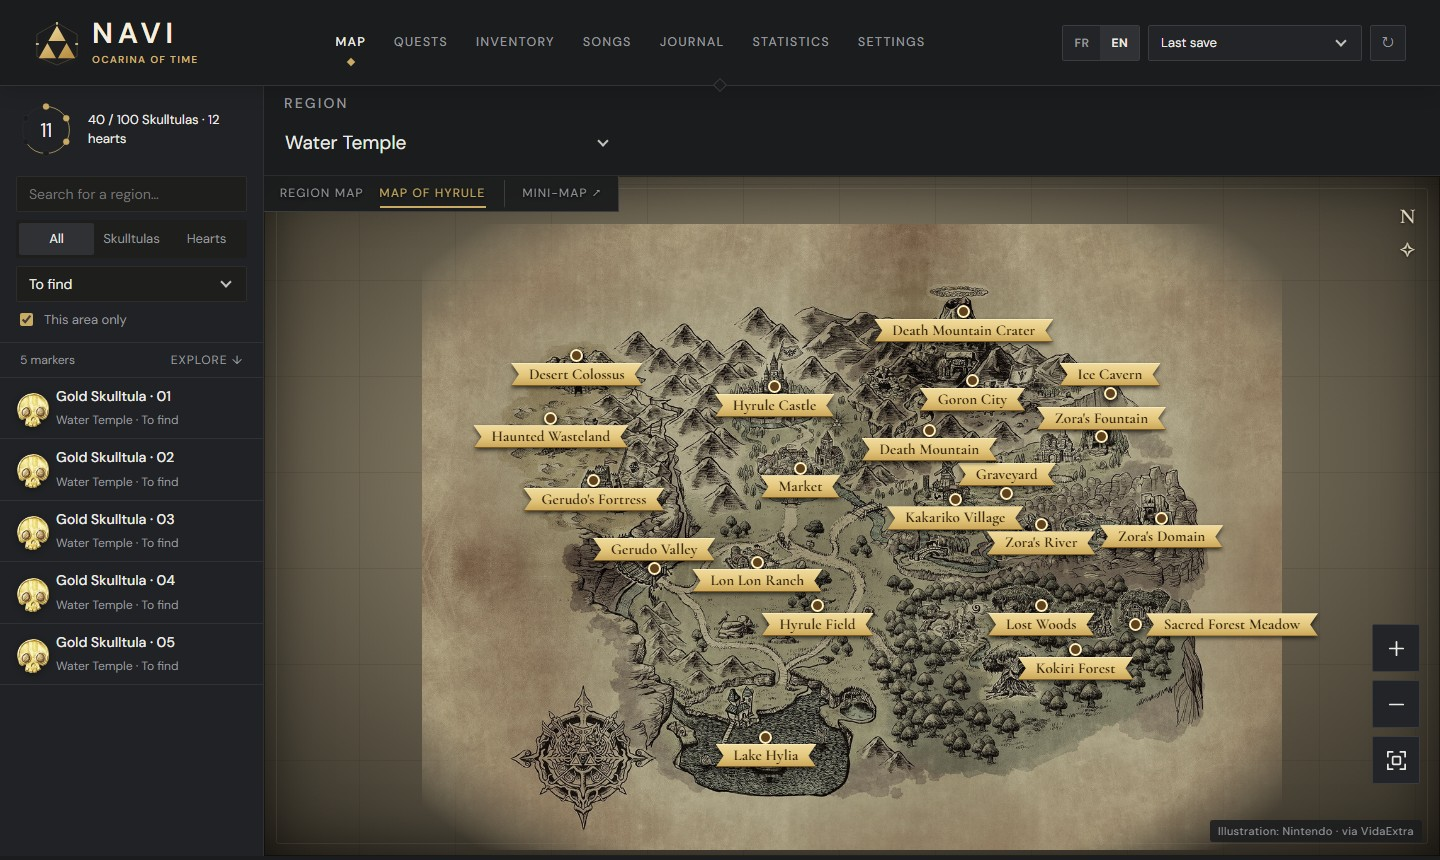
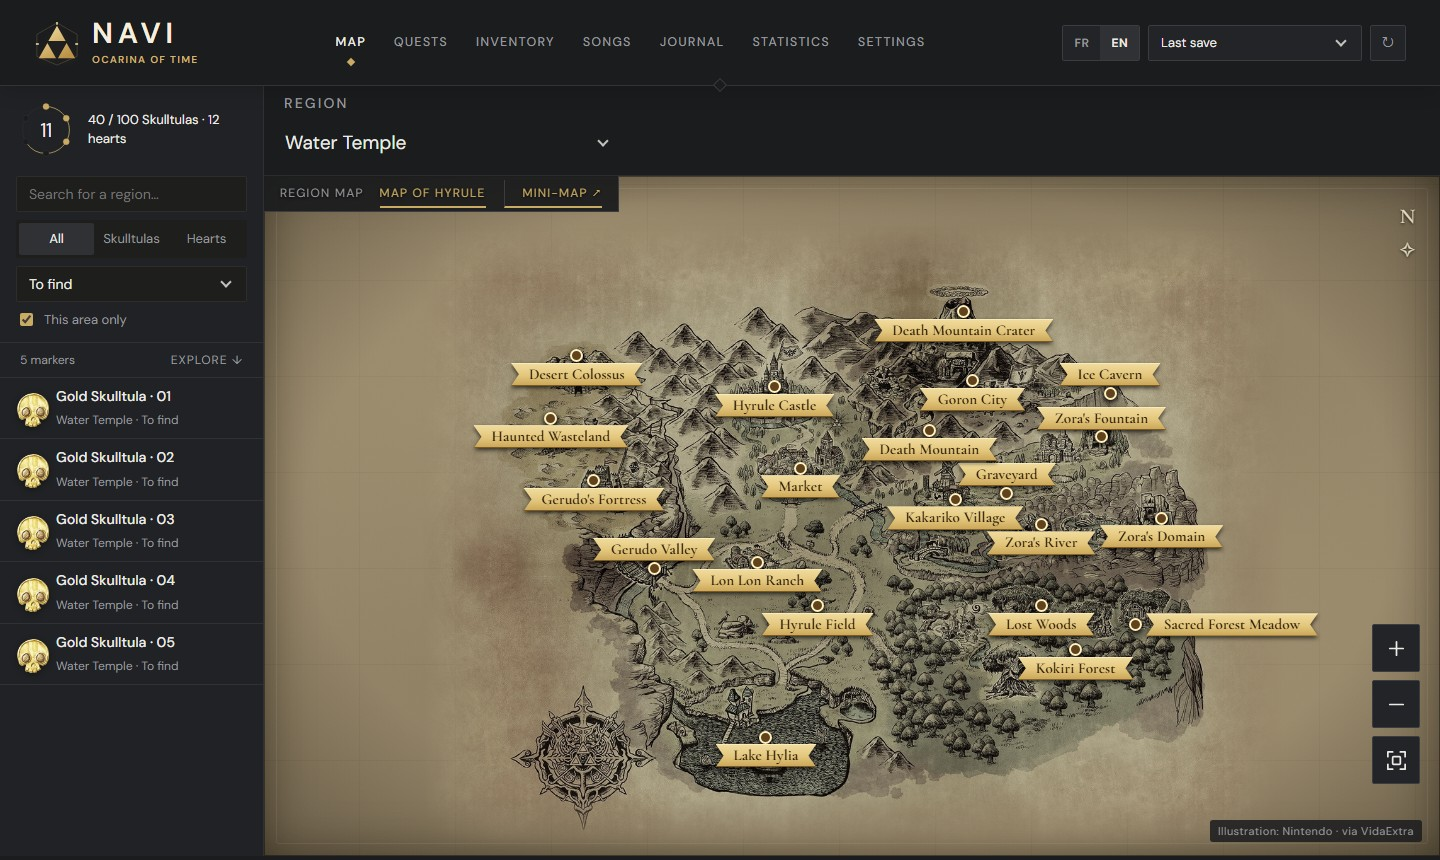
Map legend without "to verify"; README screenshots on the parchment sheet

Changed region(s): [[0.1562, 0.1814, 1.0, 0.9977]]

diff --git a/web/index.html b/web/index.html
@@ -1,7 +1,7 @@
 <!doctype html><html lang="fr"><head><meta charset="utf-8"><meta name="viewport" content="width=device-width, initial-scale=1"><title>Navi — Atlas d’Hyrule</title><link rel="stylesheet" href="/style.css"><script src="/i18n.js" defer></script><script src="/app.js" defer></script></head><body>
 <header class="topbar"><a class="brand" href="#carte" aria-label="Navi — Ocarina of Time, carte d’Hyrule"><svg class="brand-emblem" width="48" height="48" viewBox="0 0 48 48" aria-hidden="true" focusable="false"><defs><linearGradient id="brand-gold" x1="0" y1="0" x2=".7" y2="1"><stop stop-color="#f8e5a7"/><stop offset="1" stop-color="#ba9146"/></linearGradient></defs><path d="M24 3 45 15v23L24 47 3 38V15Z" fill="none" stroke="#d8b76e" stroke-opacity=".22"/><path d="M24 9 33 25H15ZM14 27l9 16H5ZM34 27l9 16H25Z" fill="url(#brand-gold)" transform="translate(0 -3)"/><path d="M24 2v3M2 25h3M43 25h3" stroke="#f8e5a7" stroke-width="1.5"/></svg><span class="brand-copy"><strong>NAVI</strong><small>OCARINA OF TIME</small></span></a><nav aria-label="Navigation principale"><button data-view="carte" aria-current="page">Carte</button><button data-view="quests">Quêtes</button><button data-view="inventory">Inventaire</button><button data-view="songs">Chants</button><button data-view="journal">Journal</button><button data-view="statistics">Statistiques</button><button data-view="settings">Réglages</button></nav><div class="save-control"><div class="lang-switch" role="group" aria-label="Langue"><button type="button" data-lang="fr" aria-pressed="true">FR</button><button type="button" data-lang="en" aria-pressed="false">EN</button></div><span id="connection" role="status">Connexion…</span><select id="slot" aria-label="Sauvegarde"><option value="latest">Dernière sauvegarde</option></select><button id="refresh" aria-label="Actualiser">↻</button></div></header><div id="error" role="alert" hidden></div><div id="update-banner" role="status" hidden></div>
 <main id="carte" class="view atlas"><aside class="explorer"><div class="panel-heading"><div id="dial-home" class="dial" role="img"></div><div class="panel-heading-copy"><p class="eyebrow">L’ATLAS DU HÉROS</p><h1>À la découverte d’Hyrule.</h1><p id="progress" class="muted">Lecture de ta sauvegarde…</p></div></div><div class="filters"><input id="map-search" type="search" placeholder="Rechercher une région…" aria-label="Rechercher sur la carte"><div class="segmented"><button data-kind="all" aria-pressed="true">Tout</button><button data-kind="skull" aria-pressed="false">Skulltulas</button><button data-kind="heart" aria-pressed="false">Cœurs</button></div><select id="status-filter" aria-label="État des collectibles"><option value="missing">À trouver</option><option value="all">Tous les repères</option><option value="owned">Obtenus</option><option value="unknown">À vérifier</option></select><label class="check"><input type="checkbox" id="local-only" checked> Cette zone uniquement</label></div><div class="list-heading"><span id="result-count"></span><span>EXPLORER ↓</span></div><div id="results" class="results"></div></aside>
-<section class="map-panel" aria-label="Carte interactive"><div class="map-view-bar"><label class="check follow-control"><input id="follow-player" type="checkbox" checked>Suivre Link</label><button id="player-center" title="Revenir à la position de Link">Ma position</button></div><div class="map-toolbar"><div><span class="eyebrow">RÉGION</span><select id="region" aria-label="Choisir la région"></select></div><select id="plan" aria-label="Époque et étage"></select></div><div id="map" tabindex="0" aria-label="Plan de la zone. Glisser ou flèches pour déplacer, molette ou boutons pour zoomer."><div id="world"></div><div class="compass" aria-hidden="true">N<br>✧</div><div class="map-top"><div class="map-view-switch" role="group" aria-label="Vue de la carte"><button id="regional-view" aria-pressed="true">Plan de la région</button><button id="world-view" aria-pressed="false">Carte d’Hyrule</button></div><button type="button" id="overlay-toggle" class="map-text-button" aria-pressed="false" title="Afficher ou fermer la mini-carte, toujours au-dessus du jeu">Mini-carte ↗</button></div><div class="zoom"><button id="zoom-in" type="button" aria-label="Agrandir" title="Agrandir"><svg viewBox="0 0 24 24" width="24" height="24" fill="none" stroke="currentColor" stroke-width="1.8" stroke-linecap="round" stroke-linejoin="round" aria-hidden="true" focusable="false"><path d="M12 5v14M5 12h14"/></svg></button><button id="zoom-out" type="button" aria-label="Réduire" title="Réduire"><svg viewBox="0 0 24 24" width="24" height="24" fill="none" stroke="currentColor" stroke-width="1.8" stroke-linecap="round" stroke-linejoin="round" aria-hidden="true" focusable="false"><path d="M5 12h14"/></svg></button><button id="fit" type="button" aria-label="Recentrer" title="Recentrer"><svg viewBox="0 0 24 24" width="24" height="24" fill="none" stroke="currentColor" stroke-width="1.8" stroke-linecap="round" stroke-linejoin="round" aria-hidden="true" focusable="false"><path d="M8 3H3v5m13-5h5v5M3 16v5h5m13-5v5h-5"/><rect x="8" y="8" width="8" height="8" rx="1"/></svg></button><button id="overlay-follow" type="button" aria-label="Suivre Link" aria-pressed="true" title="Désactiver le suivi de Link"><svg viewBox="0 0 24 24" width="24" height="24" fill="none" stroke="currentColor" stroke-width="1.8" stroke-linejoin="round" aria-hidden="true" focusable="false"><path d="m12 3 7 18-7-4-7 4 7-18Z"/></svg></button></div><div class="map-legend"><span>◆ À trouver</span><span>✓ Obtenu</span><span>? À vérifier</span></div><span class="map-credit">Plans : Owl Object Map · Nintendo</span></div><div class="map-bottom"><span id="player-status" role="status"></span><span id="map-caption">Sélectionne un repère pour l’examiner.</span><button id="mobile-list">Liste des repères</button></div></section>
+<section class="map-panel" aria-label="Carte interactive"><div class="map-view-bar"><label class="check follow-control"><input id="follow-player" type="checkbox" checked>Suivre Link</label><button id="player-center" title="Revenir à la position de Link">Ma position</button></div><div class="map-toolbar"><div><span class="eyebrow">RÉGION</span><select id="region" aria-label="Choisir la région"></select></div><select id="plan" aria-label="Époque et étage"></select></div><div id="map" tabindex="0" aria-label="Plan de la zone. Glisser ou flèches pour déplacer, molette ou boutons pour zoomer."><div id="world"></div><div class="compass" aria-hidden="true">N<br>✧</div><div class="map-top"><div class="map-view-switch" role="group" aria-label="Vue de la carte"><button id="regional-view" aria-pressed="true">Plan de la région</button><button id="world-view" aria-pressed="false">Carte d’Hyrule</button></div><button type="button" id="overlay-toggle" class="map-text-button" aria-pressed="false" title="Afficher ou fermer la mini-carte, toujours au-dessus du jeu">Mini-carte ↗</button></div><div class="zoom"><button id="zoom-in" type="button" aria-label="Agrandir" title="Agrandir"><svg viewBox="0 0 24 24" width="24" height="24" fill="none" stroke="currentColor" stroke-width="1.8" stroke-linecap="round" stroke-linejoin="round" aria-hidden="true" focusable="false"><path d="M12 5v14M5 12h14"/></svg></button><button id="zoom-out" type="button" aria-label="Réduire" title="Réduire"><svg viewBox="0 0 24 24" width="24" height="24" fill="none" stroke="currentColor" stroke-width="1.8" stroke-linecap="round" stroke-linejoin="round" aria-hidden="true" focusable="false"><path d="M5 12h14"/></svg></button><button id="fit" type="button" aria-label="Recentrer" title="Recentrer"><svg viewBox="0 0 24 24" width="24" height="24" fill="none" stroke="currentColor" stroke-width="1.8" stroke-linecap="round" stroke-linejoin="round" aria-hidden="true" focusable="false"><path d="M8 3H3v5m13-5h5v5M3 16v5h5m13-5v5h-5"/><rect x="8" y="8" width="8" height="8" rx="1"/></svg></button><button id="overlay-follow" type="button" aria-label="Suivre Link" aria-pressed="true" title="Désactiver le suivi de Link"><svg viewBox="0 0 24 24" width="24" height="24" fill="none" stroke="currentColor" stroke-width="1.8" stroke-linejoin="round" aria-hidden="true" focusable="false"><path d="m12 3 7 18-7-4-7 4 7-18Z"/></svg></button></div><div class="map-legend"><span>◆ À trouver</span><span>✓ Obtenu</span></div><span class="map-credit">Plans : Owl Object Map · Nintendo</span></div><div class="map-bottom"><span id="player-status" role="status"></span><span id="map-caption">Sélectionne un repère pour l’examiner.</span><button id="mobile-list">Liste des repères</button></div></section>
 <aside id="detail" class="detail"><p class="eyebrow">CARNET D’EXPLORATION</p><div class="detail-emblem">✧</div><h2>Chaque détour<br>cache un trésor.</h2><p class="muted">Sélectionne un repère sur la carte ou dans la liste pour consulter son état.</p><div class="notice">Skulltulas vérifiées avec le compteur de ta partie. Synchronisation des cœurs partielle : les états incertains sont marqués « À vérifier ».</div></aside></main>
 <main id="inventory" class="view page" hidden><p class="eyebrow">LA SACOCHE DU HÉROS</p><h1>Ton inventaire</h1><div class="page-toolbar"><input id="search" type="search" placeholder="Rechercher un objet…" aria-label="Rechercher un objet"><select id="filter" aria-label="Filtrer les objets"><option value="missing">Objets absents</option><option value="owned">Objets possédés</option><option value="all">Tous les objets</option></select><span id="total"></span></div><p class="muted">Un objet absent peut aussi avoir été utilisé ou échangé.</p><div id="items" class="grid"></div></main>
 <main id="songs" class="view page" hidden><p class="eyebrow">LES MÉLODIES D’HYRULE</p><h1>Ton ocarina</h1><p class="muted">Les huit chants identifiables dans ta sauvegarde.</p><div id="melodies" class="grid"></div></main>

diff --git a/web/i18n.js b/web/i18n.js
@@ -47,7 +47,6 @@ const NAVI_EN = {
 "10 rubis par partie": "10 Rupees per game",
 "100 rubis": "100 Rupees",
 "50 jetons de Skulltula": "50 Gold Skulltula Tokens",
-"? À vérifier": "? To verify",
 "ACTIVITÉS & RECORDS": "ACTIVITIES & RECORDS",
 "Absent de cet inventaire": "Not in this inventory",
 "Accès depuis la course d’Igor": "Access from Dampé's race",
